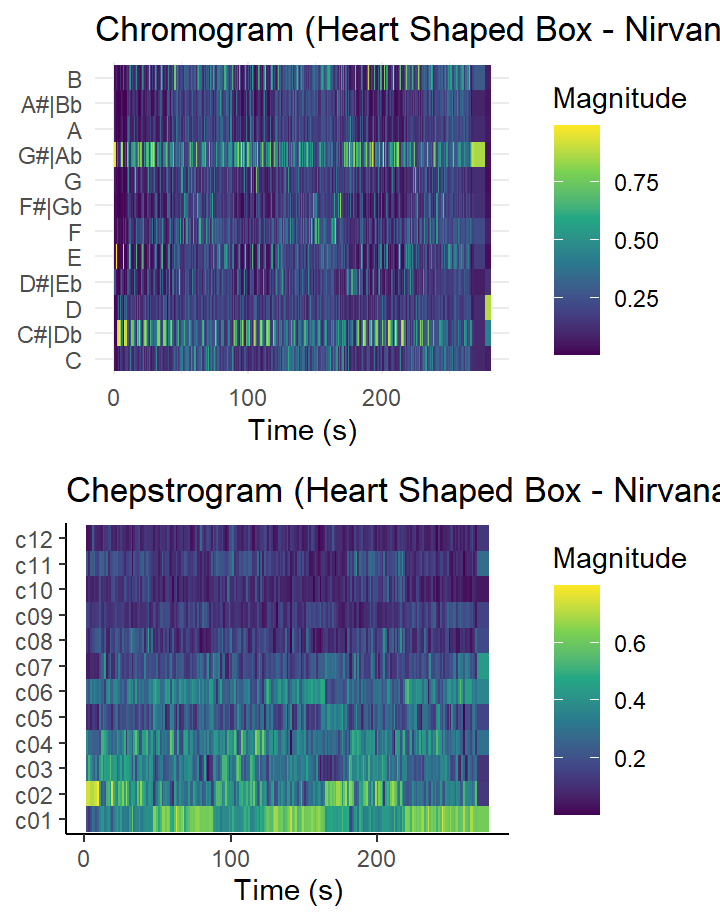
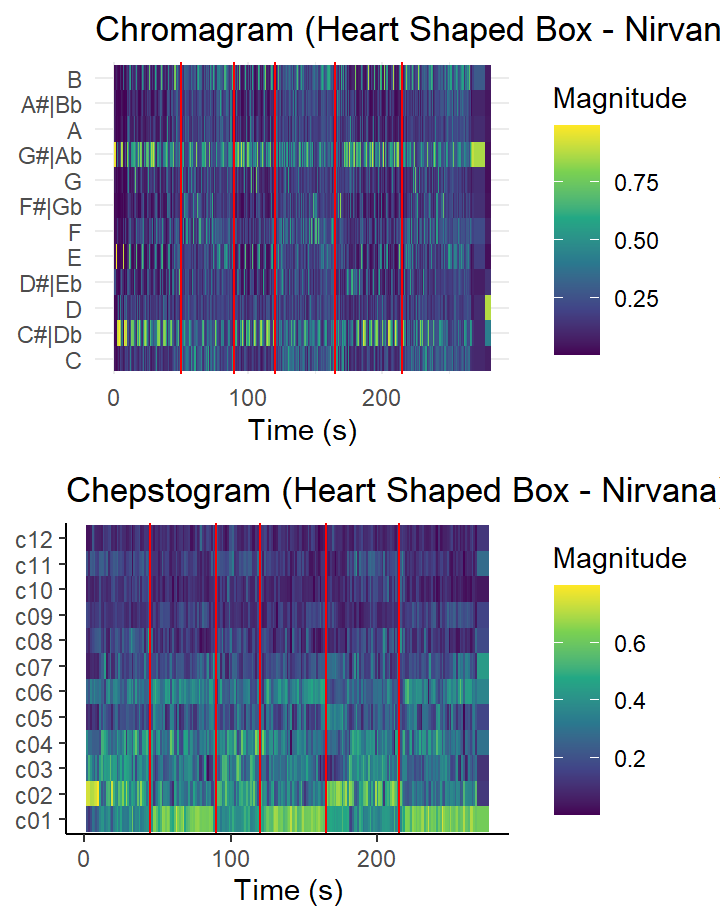
Updated chroma features

Changed region(s): [[0.2444, 0.5168, 1.0, 0.5776], [0.275, 0.0304, 0.3056, 0.0608]]

diff --git a/index.html b/index.html
@@ -2004,8 +2004,8 @@ class="section level3">
 <div class="knitr-options" data-fig-width="576" data-fig-height="460">
 
 </div>
-<div class="plotly html-widget html-fill-item" id="htmlwidget-795830f213ea0bdcb27b" style="width:576px;height:460.8px;"></div>
-<script type="application/json" data-for="htmlwidget-795830f213ea0bdcb27b">{"x":{"data":[{"x":[1,1,1,1,1,1,1,1,1,1,1,1,1,1,1,1,1,1,1,1,1,1,1,1,1,1,1,1,1,1,1,1,1,1,1,1,1,1,1,1,1,1,1,1,1,1,1,1],"y":[0.21199999999999999,0.124,0.28499999999999998,0.41199999999999998,0.255,0.46999999999999997,0.21299999999999999,0.11,0.35299999999999998,0.33300000000000002,0.16500000000000001,0.28199999999999997,0.23699999999999999,0.48499999999999999,0.193,0.094799999999999995,0.34699999999999998,0.19500000000000001,0.253,0.155,0.505,0.35199999999999998,0.077200000000000005,0.252,0.23499999999999999,0.039399999999999998,0.063,0.51000000000000001,0.125,0.16800000000000001,0.151,0.28599999999999998,0.0349,0.069900000000000004,0.36599999999999999,0.14699999999999999,0.16300000000000001,0.21099999999999999,0.249,0.20000000000000001,0.42199999999999999,0.23599999999999999,0.078899999999999998,0.034099999999999998,0.26000000000000001,0.41699999999999998,0.44600000000000001,0.16200000000000001],"hoverinfo":"y","type":"box","fillcolor":"rgba(248,118,109,0.55)","marker":{"opacity":null,"outliercolor":"rgba(0,0,0,1)","line":{"width":1.8897637795275593,"color":"rgba(0,0,0,1)"},"size":5.6692913385826778},"line":{"color":"rgba(51,51,51,1)","width":1.8897637795275593},"name":"Coldplay","legendgroup":"Coldplay","showlegend":true,"xaxis":"x","yaxis":"y","frame":null},{"x":[2,2,2,2,2,2,2,2,2,2,2,2,2,2,2,2,2,2,2,2,2,2,2,2,2,2,2,2,2,2,2,2,2,2,2,2,2,2],"y":[0.71999999999999997,0.57499999999999996,0.38200000000000001,0.876,0.53900000000000003,0.77000000000000002,0.35899999999999999,0.48499999999999999,0.22900000000000001,0.34399999999999997,0.066799999999999998,0.33300000000000002,0.23499999999999999,0.51200000000000001,0.96499999999999997,0.41899999999999998,0.26200000000000001,0.26300000000000001,0.66800000000000004,0.53100000000000003,0.32700000000000001,0.68100000000000005,0.19600000000000001,0.13,0.441,0.35099999999999998,0.41799999999999998,0.25700000000000001,0.55500000000000005,0.63800000000000001,0.68300000000000005,0.61299999999999999,0.39000000000000001,0.51200000000000001,0.55400000000000005,0.61699999999999999,0.53700000000000003,0.48199999999999998],"hoverinfo":"y","type":"box","fillcolor":"rgba(0,186,56,0.55)","marker":{"opacity":null,"outliercolor":"rgba(0,0,0,1)","line":{"width":1.8897637795275593,"color":"rgba(0,0,0,1)"},"size":5.6692913385826778},"line":{"color":"rgba(51,51,51,1)","width":1.8897637795275593},"name":"Nirvana","legendgroup":"Nirvana","showlegend":true,"xaxis":"x","yaxis":"y","frame":null},{"x":[3,3,3,3,3,3,3,3,3,3,3,3,3,3,3,3,3,3,3,3,3,3,3,3,3,3,3,3,3,3,3,3,3,3,3,3,3,3,3,3,3,3,3,3,3,3,3,3,3,3],"y":[0.39400000000000002,0.435,0.372,0.315,0.93700000000000006,0.40999999999999998,0.187,0.65000000000000002,0.378,0.90000000000000002,0.377,0.63600000000000001,0.81299999999999994,0.97499999999999998,0.76300000000000001,0.93600000000000005,0.33200000000000002,0.35799999999999998,0.79700000000000004,0.70199999999999996,0.23899999999999999,0.74399999999999999,0.84199999999999997,0.66600000000000004,0.625,0.97099999999999997,0.35999999999999999,0.83199999999999996,0.53200000000000003,0.749,0.39200000000000002,0.56799999999999995,0.74399999999999999,0.71299999999999997,0.80300000000000005,0.89300000000000002,0.90200000000000002,0.73299999999999998,0.54900000000000004,0.81999999999999995,0.69799999999999995,0.66100000000000003,0.64600000000000002,0.68700000000000006,0.65300000000000002,0.74199999999999999,0.66800000000000004,0.85799999999999998,0.72999999999999998,0.60899999999999999],"hoverinfo":"y","type":"box","fillcolor":"rgba(97,156,255,0.55)","marker":{"opacity":null,"outliercolor":"rgba(0,0,0,1)","line":{"width":1.8897637795275593,"color":"rgba(0,0,0,1)"},"size":5.6692913385826778},"line":{"color":"rgba(51,51,51,1)","width":1.8897637795275593},"name":"The Beatles","legendgroup":"The Beatles","showlegend":true,"xaxis":"x","yaxis":"y","frame":null},{"x":[1,1,1,1,1,1,1,1,1,1,1,1,1,1,1,1,1,1,1,1,1,1,1,1,1,1,1,1,1,1,1,1,1,1,1,1,1,1,1,1,1,1,1,1,1,1,1,1],"y":[0.58499999999999996,0.41699999999999998,0.66100000000000003,0.69299999999999995,0.749,0.71099999999999997,0.442,0.57999999999999996,0.89800000000000002,0.73199999999999998,0.26800000000000002,0.80800000000000005,0.68999999999999995,0.83199999999999996,0.58799999999999997,0.73999999999999999,0.68000000000000005,0.54600000000000004,0.71699999999999997,0.34200000000000003,0.64900000000000002,0.48199999999999998,0.92000000000000004,0.55600000000000005,0.45200000000000001,0.502,0.48199999999999998,0.79600000000000004,0.48599999999999999,0.59399999999999997,0.45900000000000002,0.80300000000000005,0.47499999999999998,0.26500000000000001,0.82399999999999995,0.84099999999999997,0.83399999999999996,0.29499999999999998,0.52500000000000002,0.17999999999999999,0.71099999999999997,0.17999999999999999,0.63900000000000001,0.216,0.79700000000000004,0.61699999999999999,0.63500000000000001,0.67500000000000004],"hoverinfo":"y","type":"box","fillcolor":"rgba(248,118,109,0.55)","marker":{"opacity":null,"outliercolor":"rgba(0,0,0,1)","line":{"width":1.8897637795275593,"color":"rgba(0,0,0,1)"},"size":5.6692913385826778},"line":{"color":"rgba(51,51,51,1)","width":1.8897637795275593},"name":"Coldplay","legendgroup":"Coldplay","showlegend":true,"xaxis":"x2","yaxis":"y2","frame":null},{"x":[2,2,2,2,2,2,2,2,2,2,2,2,2,2,2,2,2,2,2,2,2,2,2,2,2,2,2,2,2,2,2,2,2,2,2,2,2,2],"y":[0.91200000000000003,0.875,0.64100000000000001,0.39500000000000002,0.82399999999999995,0.86499999999999999,0.63200000000000001,0.65600000000000003,0.746,0.71599999999999997,0.20100000000000001,0.32600000000000001,0.82299999999999995,0.876,0.88600000000000001,0.68400000000000005,0.51000000000000001,0.96899999999999997,0.89500000000000002,0.88200000000000001,0.501,0.89500000000000002,0.44900000000000001,0.94299999999999995,0.83699999999999997,0.90800000000000003,0.94699999999999995,0.81799999999999995,0.93100000000000005,0.81000000000000005,0.878,0.56699999999999995,0.93799999999999994,0.876,0.72299999999999998,0.82999999999999996,0.52400000000000002,0.89800000000000002],"hoverinfo":"y","type":"box","fillcolor":"rgba(0,186,56,0.55)","marker":{"opacity":null,"outliercolor":"rgba(0,0,0,1)","line":{"width":1.8897637795275593,"color":"rgba(0,0,0,1)"},"size":5.6692913385826778},"line":{"color":"rgba(51,51,51,1)","width":1.8897637795275593},"name":"Nirvana","legendgroup":"Nirvana","showlegend":true,"xaxis":"x2","yaxis":"y2","frame":null},{"x":[3,3,3,3,3,3,3,3,3,3,3,3,3,3,3,3,3,3,3,3,3,3,3,3,3,3,3,3,3,3,3,3,3,3,3,3,3,3,3,3,3,3,3,3,3,3,3,3,3,3],"y":[0.54000000000000004,0.435,0.127,0.17899999999999999,0.84899999999999998,0.40300000000000002,0.376,0.36899999999999999,0.39200000000000002,0.56299999999999994,0.33800000000000002,0.33100000000000002,0.28000000000000003,0.72799999999999998,0.72499999999999998,0.70299999999999996,0.59199999999999997,0.60499999999999998,0.80500000000000005,0.65400000000000003,0.152,0.82899999999999996,0.67700000000000005,0.28999999999999998,0.313,0.80100000000000005,0.247,0.38700000000000001,0.60699999999999998,0.84999999999999998,0.32900000000000001,0.31,0.58299999999999996,0.35099999999999998,0.51500000000000001,0.29399999999999998,0.89500000000000002,0.28899999999999998,0.65600000000000003,0.57099999999999995,0.72199999999999998,0.24099999999999999,0.33800000000000002,0.624,0.47999999999999998,0.60799999999999998,0.32500000000000001,0.41199999999999998,0.51200000000000001,0.34899999999999998],"hoverinfo":"y","type":"box","fillcolor":"rgba(97,156,255,0.55)","marker":{"opacity":null,"outliercolor":"rgba(0,0,0,1)","line":{"width":1.8897637795275593,"color":"rgba(0,0,0,1)"},"size":5.6692913385826778},"line":{"color":"rgba(51,51,51,1)","width":1.8897637795275593},"name":"The Beatles","legendgroup":"The Beatles","showlegend":true,"xaxis":"x2","yaxis":"y2","frame":null}],"layout":{"xaxis":{"domain":[0,0.47999999999999998],"automargin":true,"type":"linear","autorange":false,"range":[0.40000000000000002,3.6000000000000001],"tickmode":"array","ticktext":["Coldplay","Nirvana","The Beatles"],"tickvals":[1,2,3],"categoryorder":"array","categoryarray":["Coldplay","Nirvana","The Beatles"],"nticks":null,"ticks":"outside","tickcolor":"rgba(179,179,179,1)","ticklen":3.6529680365296811,"tickwidth":0.33208800332088001,"showticklabels":true,"tickfont":{"color":"rgba(77,77,77,1)","family":"","size":11.689497716894984},"tickangle":-0,"showline":false,"linecolor":null,"linewidth":0,"showgrid":false,"gridcolor":null,"gridwidth":0,"zeroline":false,"anchor":"y","hoverformat":".2f"},"xaxis2":{"domain":[0.52000000000000002,1],"automargin":true,"type":"linear","autorange":false,"range":[0.40000000000000002,3.6000000000000001],"tickmode":"array","ticktext":["Coldplay","Nirvana","The Beatles"],"tickvals":[1,2,3],"categoryorder":"array","categoryarray":["Coldplay","Nirvana","The Beatles"],"nticks":null,"ticks":"outside","tickcolor":"rgba(179,179,179,1)","ticklen":3.6529680365296811,"tickwidth":0.33208800332088001,"showticklabels":true,"tickfont":{"color":"rgba(77,77,77,1)","family":"","size":11.689497716894984},"tickangle":-0,"showline":false,"linecolor":null,"linewidth":0,"showgrid":false,"gridcolor":null,"gridwidth":0,"zeroline":false,"anchor":"y2","hoverformat":".2f"},"yaxis2":{"domain":[0,1],"automargin":true,"type":"linear","autorange":false,"range":[-0.050000000000000003,1.05],"tickmode":"array","ticktext":["0.00","0.25","0.50","0.75","1.00"],"tickvals":[0,0.25,0.5,0.75,1],"categoryorder":"array","categoryarray":["0.00","0.25","0.50","0.75","1.00"],"nticks":null,"ticks":"outside","tickcolor":"rgba(179,179,179,1)","ticklen":3.6529680365296811,"tickwidth":0.33208800332088001,"showticklabels":true,"tickfont":{"color":"rgba(77,77,77,1)","family":"","size":11.68949771689498},"tickangle":-0,"showline":false,"linecolor":null,"linewidth":0,"showgrid":true,"gridcolor":"rgba(222,222,222,1)","gridwidth":0.33208800332088001,"zeroline":false,"anchor":"x2","hoverformat":".2f"},"yaxis":{"domain":[0,1],"automargin":true,"type":"linear","autorange":false,"range":[-0.050000000000000003,1.05],"tickmode":"array","ticktext":["0.00","0.25","0.50","0.75","1.00"],"tickvals":[0,0.25,0.5,0.75,1],"categoryorder":"array","categoryarray":["0.00","0.25","0.50","0.75","1.00"],"nticks":null,"ticks":"outside","tickcolor":"rgba(179,179,179,1)","ticklen":3.6529680365296811,"tickwidth":0.33208800332088001,"showticklabels":true,"tickfont":{"color":"rgba(77,77,77,1)","family":"","size":11.68949771689498},"tickangle":-0,"showline":false,"linecolor":null,"linewidth":0,"showgrid":true,"gridcolor":"rgba(222,222,222,1)","gridwidth":0.33208800332088001,"zeroline":false,"anchor":"x","hoverformat":".2f"},"annotations":[],"shapes":[{"type":"rect","fillcolor":"transparent","line":{"color":"rgba(179,179,179,1)","width":0.66417600664176002,"linetype":"solid"},"yref":"paper","xref":"paper","x0":0,"x1":0.47999999999999998,"y0":0,"y1":1},{"type":"rect","fillcolor":"transparent","line":{"color":"rgba(179,179,179,1)","width":0.66417600664176002,"linetype":"solid"},"yref":"paper","xref":"paper","x0":0.52000000000000002,"x1":1,"y0":0,"y1":1}],"images":[],"margin":{"t":42.682549136390719,"r":7.3059360730593621,"b":39.102640460591637,"l":48.949771689497723},"plot_bgcolor":"rgba(255,255,255,1)","paper_bgcolor":"rgba(255,255,255,1)","font":{"color":"rgba(0,0,0,1)","family":"","size":14.611872146118724},"title":{"text":"Left: Valence Distribution, Right: Energy Distribution","font":{"color":"rgba(0,0,0,1)","family":"","size":17.534246575342468},"x":0,"xref":"paper"},"showlegend":false,"legend":{"bgcolor":"rgba(255,255,255,1)","bordercolor":"transparent","borderwidth":1.8897637795275593,"font":{"color":"rgba(0,0,0,1)","family":"","size":11.689497716894984}},"hovermode":"closest","barmode":"relative"},"attrs":{"3b201e77649c":{"x":{},"y":{},"fill":{},"alpha":{},"type":"box"},"3b204364537d":{"x":{},"y":{},"fill":{},"alpha":{},"type":"box"}},"source":"A","config":{"doubleClick":"reset","modeBarButtonsToAdd":["hoverclosest","hovercompare"],"showSendToCloud":false},"highlight":{"on":"plotly_click","persistent":false,"dynamic":false,"selectize":false,"opacityDim":0.20000000000000001,"selected":{"opacity":1},"debounce":0},"subplot":true,"shinyEvents":["plotly_hover","plotly_click","plotly_selected","plotly_relayout","plotly_brushed","plotly_brushing","plotly_clickannotation","plotly_doubleclick","plotly_deselect","plotly_afterplot","plotly_sunburstclick"],"base_url":"https://plot.ly"},"evals":[],"jsHooks":[]}</script>
+<div class="plotly html-widget html-fill-item" id="htmlwidget-0ec98576cbd6f609788f" style="width:576px;height:460.8px;"></div>
+<script type="application/json" data-for="htmlwidget-0ec98576cbd6f609788f">{"x":{"data":[{"x":[1,1,1,1,1,1,1,1,1,1,1,1,1,1,1,1,1,1,1,1,1,1,1,1,1,1,1,1,1,1,1,1,1,1,1,1,1,1,1,1,1,1,1,1,1,1,1,1],"y":[0.21199999999999999,0.124,0.28499999999999998,0.41199999999999998,0.255,0.46999999999999997,0.21299999999999999,0.11,0.35299999999999998,0.33300000000000002,0.16500000000000001,0.28199999999999997,0.23699999999999999,0.48499999999999999,0.193,0.094799999999999995,0.34699999999999998,0.19500000000000001,0.253,0.155,0.505,0.35199999999999998,0.077200000000000005,0.252,0.23499999999999999,0.039399999999999998,0.063,0.51000000000000001,0.125,0.16800000000000001,0.151,0.28599999999999998,0.0349,0.069900000000000004,0.36599999999999999,0.14699999999999999,0.16300000000000001,0.21099999999999999,0.249,0.20000000000000001,0.42199999999999999,0.23599999999999999,0.078899999999999998,0.034099999999999998,0.26000000000000001,0.41699999999999998,0.44600000000000001,0.16200000000000001],"hoverinfo":"y","type":"box","fillcolor":"rgba(248,118,109,0.55)","marker":{"opacity":null,"outliercolor":"rgba(0,0,0,1)","line":{"width":1.8897637795275593,"color":"rgba(0,0,0,1)"},"size":5.6692913385826778},"line":{"color":"rgba(51,51,51,1)","width":1.8897637795275593},"name":"Coldplay","legendgroup":"Coldplay","showlegend":true,"xaxis":"x","yaxis":"y","frame":null},{"x":[2,2,2,2,2,2,2,2,2,2,2,2,2,2,2,2,2,2,2,2,2,2,2,2,2,2,2,2,2,2,2,2,2,2,2,2,2,2],"y":[0.71999999999999997,0.57499999999999996,0.38200000000000001,0.876,0.53900000000000003,0.77000000000000002,0.35899999999999999,0.48499999999999999,0.22900000000000001,0.34399999999999997,0.066799999999999998,0.33300000000000002,0.23499999999999999,0.51200000000000001,0.96499999999999997,0.41899999999999998,0.26200000000000001,0.26300000000000001,0.66800000000000004,0.53100000000000003,0.32700000000000001,0.68100000000000005,0.19600000000000001,0.13,0.441,0.35099999999999998,0.41799999999999998,0.25700000000000001,0.55500000000000005,0.63800000000000001,0.68300000000000005,0.61299999999999999,0.39000000000000001,0.51200000000000001,0.55400000000000005,0.61699999999999999,0.53700000000000003,0.48199999999999998],"hoverinfo":"y","type":"box","fillcolor":"rgba(0,186,56,0.55)","marker":{"opacity":null,"outliercolor":"rgba(0,0,0,1)","line":{"width":1.8897637795275593,"color":"rgba(0,0,0,1)"},"size":5.6692913385826778},"line":{"color":"rgba(51,51,51,1)","width":1.8897637795275593},"name":"Nirvana","legendgroup":"Nirvana","showlegend":true,"xaxis":"x","yaxis":"y","frame":null},{"x":[3,3,3,3,3,3,3,3,3,3,3,3,3,3,3,3,3,3,3,3,3,3,3,3,3,3,3,3,3,3,3,3,3,3,3,3,3,3,3,3,3,3,3,3,3,3,3,3,3,3],"y":[0.39400000000000002,0.435,0.372,0.315,0.93700000000000006,0.40999999999999998,0.187,0.65000000000000002,0.378,0.90000000000000002,0.377,0.63600000000000001,0.81299999999999994,0.97499999999999998,0.76300000000000001,0.93600000000000005,0.33200000000000002,0.35799999999999998,0.79700000000000004,0.70199999999999996,0.23899999999999999,0.74399999999999999,0.84199999999999997,0.66600000000000004,0.625,0.97099999999999997,0.35999999999999999,0.83199999999999996,0.53200000000000003,0.749,0.39200000000000002,0.56799999999999995,0.74399999999999999,0.71299999999999997,0.80300000000000005,0.89300000000000002,0.90200000000000002,0.73299999999999998,0.54900000000000004,0.81999999999999995,0.69799999999999995,0.66100000000000003,0.64600000000000002,0.68700000000000006,0.65300000000000002,0.74199999999999999,0.66800000000000004,0.85799999999999998,0.72999999999999998,0.60899999999999999],"hoverinfo":"y","type":"box","fillcolor":"rgba(97,156,255,0.55)","marker":{"opacity":null,"outliercolor":"rgba(0,0,0,1)","line":{"width":1.8897637795275593,"color":"rgba(0,0,0,1)"},"size":5.6692913385826778},"line":{"color":"rgba(51,51,51,1)","width":1.8897637795275593},"name":"The Beatles","legendgroup":"The Beatles","showlegend":true,"xaxis":"x","yaxis":"y","frame":null},{"x":[1,1,1,1,1,1,1,1,1,1,1,1,1,1,1,1,1,1,1,1,1,1,1,1,1,1,1,1,1,1,1,1,1,1,1,1,1,1,1,1,1,1,1,1,1,1,1,1],"y":[0.58499999999999996,0.41699999999999998,0.66100000000000003,0.69299999999999995,0.749,0.71099999999999997,0.442,0.57999999999999996,0.89800000000000002,0.73199999999999998,0.26800000000000002,0.80800000000000005,0.68999999999999995,0.83199999999999996,0.58799999999999997,0.73999999999999999,0.68000000000000005,0.54600000000000004,0.71699999999999997,0.34200000000000003,0.64900000000000002,0.48199999999999998,0.92000000000000004,0.55600000000000005,0.45200000000000001,0.502,0.48199999999999998,0.79600000000000004,0.48599999999999999,0.59399999999999997,0.45900000000000002,0.80300000000000005,0.47499999999999998,0.26500000000000001,0.82399999999999995,0.84099999999999997,0.83399999999999996,0.29499999999999998,0.52500000000000002,0.17999999999999999,0.71099999999999997,0.17999999999999999,0.63900000000000001,0.216,0.79700000000000004,0.61699999999999999,0.63500000000000001,0.67500000000000004],"hoverinfo":"y","type":"box","fillcolor":"rgba(248,118,109,0.55)","marker":{"opacity":null,"outliercolor":"rgba(0,0,0,1)","line":{"width":1.8897637795275593,"color":"rgba(0,0,0,1)"},"size":5.6692913385826778},"line":{"color":"rgba(51,51,51,1)","width":1.8897637795275593},"name":"Coldplay","legendgroup":"Coldplay","showlegend":true,"xaxis":"x2","yaxis":"y2","frame":null},{"x":[2,2,2,2,2,2,2,2,2,2,2,2,2,2,2,2,2,2,2,2,2,2,2,2,2,2,2,2,2,2,2,2,2,2,2,2,2,2],"y":[0.91200000000000003,0.875,0.64100000000000001,0.39500000000000002,0.82399999999999995,0.86499999999999999,0.63200000000000001,0.65600000000000003,0.746,0.71599999999999997,0.20100000000000001,0.32600000000000001,0.82299999999999995,0.876,0.88600000000000001,0.68400000000000005,0.51000000000000001,0.96899999999999997,0.89500000000000002,0.88200000000000001,0.501,0.89500000000000002,0.44900000000000001,0.94299999999999995,0.83699999999999997,0.90800000000000003,0.94699999999999995,0.81799999999999995,0.93100000000000005,0.81000000000000005,0.878,0.56699999999999995,0.93799999999999994,0.876,0.72299999999999998,0.82999999999999996,0.52400000000000002,0.89800000000000002],"hoverinfo":"y","type":"box","fillcolor":"rgba(0,186,56,0.55)","marker":{"opacity":null,"outliercolor":"rgba(0,0,0,1)","line":{"width":1.8897637795275593,"color":"rgba(0,0,0,1)"},"size":5.6692913385826778},"line":{"color":"rgba(51,51,51,1)","width":1.8897637795275593},"name":"Nirvana","legendgroup":"Nirvana","showlegend":true,"xaxis":"x2","yaxis":"y2","frame":null},{"x":[3,3,3,3,3,3,3,3,3,3,3,3,3,3,3,3,3,3,3,3,3,3,3,3,3,3,3,3,3,3,3,3,3,3,3,3,3,3,3,3,3,3,3,3,3,3,3,3,3,3],"y":[0.54000000000000004,0.435,0.127,0.17899999999999999,0.84899999999999998,0.40300000000000002,0.376,0.36899999999999999,0.39200000000000002,0.56299999999999994,0.33800000000000002,0.33100000000000002,0.28000000000000003,0.72799999999999998,0.72499999999999998,0.70299999999999996,0.59199999999999997,0.60499999999999998,0.80500000000000005,0.65400000000000003,0.152,0.82899999999999996,0.67700000000000005,0.28999999999999998,0.313,0.80100000000000005,0.247,0.38700000000000001,0.60699999999999998,0.84999999999999998,0.32900000000000001,0.31,0.58299999999999996,0.35099999999999998,0.51500000000000001,0.29399999999999998,0.89500000000000002,0.28899999999999998,0.65600000000000003,0.57099999999999995,0.72199999999999998,0.24099999999999999,0.33800000000000002,0.624,0.47999999999999998,0.60799999999999998,0.32500000000000001,0.41199999999999998,0.51200000000000001,0.34899999999999998],"hoverinfo":"y","type":"box","fillcolor":"rgba(97,156,255,0.55)","marker":{"opacity":null,"outliercolor":"rgba(0,0,0,1)","line":{"width":1.8897637795275593,"color":"rgba(0,0,0,1)"},"size":5.6692913385826778},"line":{"color":"rgba(51,51,51,1)","width":1.8897637795275593},"name":"The Beatles","legendgroup":"The Beatles","showlegend":true,"xaxis":"x2","yaxis":"y2","frame":null}],"layout":{"xaxis":{"domain":[0,0.47999999999999998],"automargin":true,"type":"linear","autorange":false,"range":[0.40000000000000002,3.6000000000000001],"tickmode":"array","ticktext":["Coldplay","Nirvana","The Beatles"],"tickvals":[1,2,3],"categoryorder":"array","categoryarray":["Coldplay","Nirvana","The Beatles"],"nticks":null,"ticks":"outside","tickcolor":"rgba(179,179,179,1)","ticklen":3.6529680365296811,"tickwidth":0.33208800332088001,"showticklabels":true,"tickfont":{"color":"rgba(77,77,77,1)","family":"","size":11.689497716894984},"tickangle":-0,"showline":false,"linecolor":null,"linewidth":0,"showgrid":false,"gridcolor":null,"gridwidth":0,"zeroline":false,"anchor":"y","hoverformat":".2f"},"xaxis2":{"domain":[0.52000000000000002,1],"automargin":true,"type":"linear","autorange":false,"range":[0.40000000000000002,3.6000000000000001],"tickmode":"array","ticktext":["Coldplay","Nirvana","The Beatles"],"tickvals":[1,2,3],"categoryorder":"array","categoryarray":["Coldplay","Nirvana","The Beatles"],"nticks":null,"ticks":"outside","tickcolor":"rgba(179,179,179,1)","ticklen":3.6529680365296811,"tickwidth":0.33208800332088001,"showticklabels":true,"tickfont":{"color":"rgba(77,77,77,1)","family":"","size":11.689497716894984},"tickangle":-0,"showline":false,"linecolor":null,"linewidth":0,"showgrid":false,"gridcolor":null,"gridwidth":0,"zeroline":false,"anchor":"y2","hoverformat":".2f"},"yaxis2":{"domain":[0,1],"automargin":true,"type":"linear","autorange":false,"range":[-0.050000000000000003,1.05],"tickmode":"array","ticktext":["0.00","0.25","0.50","0.75","1.00"],"tickvals":[0,0.25,0.5,0.75,1],"categoryorder":"array","categoryarray":["0.00","0.25","0.50","0.75","1.00"],"nticks":null,"ticks":"outside","tickcolor":"rgba(179,179,179,1)","ticklen":3.6529680365296811,"tickwidth":0.33208800332088001,"showticklabels":true,"tickfont":{"color":"rgba(77,77,77,1)","family":"","size":11.68949771689498},"tickangle":-0,"showline":false,"linecolor":null,"linewidth":0,"showgrid":true,"gridcolor":"rgba(222,222,222,1)","gridwidth":0.33208800332088001,"zeroline":false,"anchor":"x2","hoverformat":".2f"},"yaxis":{"domain":[0,1],"automargin":true,"type":"linear","autorange":false,"range":[-0.050000000000000003,1.05],"tickmode":"array","ticktext":["0.00","0.25","0.50","0.75","1.00"],"tickvals":[0,0.25,0.5,0.75,1],"categoryorder":"array","categoryarray":["0.00","0.25","0.50","0.75","1.00"],"nticks":null,"ticks":"outside","tickcolor":"rgba(179,179,179,1)","ticklen":3.6529680365296811,"tickwidth":0.33208800332088001,"showticklabels":true,"tickfont":{"color":"rgba(77,77,77,1)","family":"","size":11.68949771689498},"tickangle":-0,"showline":false,"linecolor":null,"linewidth":0,"showgrid":true,"gridcolor":"rgba(222,222,222,1)","gridwidth":0.33208800332088001,"zeroline":false,"anchor":"x","hoverformat":".2f"},"annotations":[],"shapes":[{"type":"rect","fillcolor":"transparent","line":{"color":"rgba(179,179,179,1)","width":0.66417600664176002,"linetype":"solid"},"yref":"paper","xref":"paper","x0":0,"x1":0.47999999999999998,"y0":0,"y1":1},{"type":"rect","fillcolor":"transparent","line":{"color":"rgba(179,179,179,1)","width":0.66417600664176002,"linetype":"solid"},"yref":"paper","xref":"paper","x0":0.52000000000000002,"x1":1,"y0":0,"y1":1}],"images":[],"margin":{"t":42.682549136390719,"r":7.3059360730593621,"b":39.102640460591637,"l":48.949771689497723},"plot_bgcolor":"rgba(255,255,255,1)","paper_bgcolor":"rgba(255,255,255,1)","font":{"color":"rgba(0,0,0,1)","family":"","size":14.611872146118724},"title":{"text":"Left: Valence Distribution, Right: Energy Distribution","font":{"color":"rgba(0,0,0,1)","family":"","size":17.534246575342468},"x":0,"xref":"paper"},"showlegend":false,"legend":{"bgcolor":"rgba(255,255,255,1)","bordercolor":"transparent","borderwidth":1.8897637795275593,"font":{"color":"rgba(0,0,0,1)","family":"","size":11.689497716894984}},"hovermode":"closest","barmode":"relative"},"attrs":{"1d3057ce6f39":{"x":{},"y":{},"fill":{},"alpha":{},"type":"box"},"1d305d47f6a":{"x":{},"y":{},"fill":{},"alpha":{},"type":"box"}},"source":"A","config":{"doubleClick":"reset","modeBarButtonsToAdd":["hoverclosest","hovercompare"],"showSendToCloud":false},"highlight":{"on":"plotly_click","persistent":false,"dynamic":false,"selectize":false,"opacityDim":0.20000000000000001,"selected":{"opacity":1},"debounce":0},"subplot":true,"shinyEvents":["plotly_hover","plotly_click","plotly_selected","plotly_relayout","plotly_brushed","plotly_brushing","plotly_clickannotation","plotly_doubleclick","plotly_deselect","plotly_afterplot","plotly_sunburstclick"],"base_url":"https://plot.ly"},"evals":[],"jsHooks":[]}</script>
 <hr />
 <p>The two plots on the left show the distribution of valence (the
 positiveness of a song) and energy (the intensity of a song) per
@@ -2028,13 +2028,32 @@ intensity. Coldplay follows with a median of 0.63, while The Beatles
 have a median intensity of 0.43. I also found the results for The
 Beatles not surprising, since their tracks usually play more slow.</p>
 </div>
-<div id="chromagram-and-cepstrogram" class="section level3">
-<h3>Chromagram and Cepstrogram</h3>
+<div id="chroma-features" class="section level3">
+<h3>Chroma Features</h3>
 <div class="knitr-options" data-fig-width="576" data-fig-height="460">
 
 </div>
 <p><img src="index_files/figure-html/unnamed-chunk-1-1.png" width="576" data-figure-id=fig1 /></p>
 <hr />
+<p>One of the fastest tracks in this corpus in “Heart Shaped Box” by
+Nirvana. It does have the highest tempo (which we will get to in later
+chapters). It’s pitch content is displayed in the two graphs on the
+left. The top graph shows the chromagram of this graph and the bottom
+one shows the chepstogram. The chromagram displays the energy
+distribution of different pitch classes over time, while the chepstogram
+displays the spectral content over time.</p>
+<iframe style="border-radius:12px" src="https://open.spotify.com/embed/track/11LmqTE2naFULdEP94AUBa?utm_source=generator&amp;theme=0" width="100%" height="152" frameBorder="0" allowfullscreen allow="autoplay; clipboard-write; encrypted-media; fullscreen; picture-in-picture" loading="lazy">
+</iframe>
+<p>This track can be roughly divided into two ‘structures’ that
+interchange. To time points in which those changes happen is marked with
+the red lines. The track starts with a lot of energy in the G#/Ab and
+G#/Db pitch classes, with also a little bit coming from E. We can see
+this on the chepstogram, where there is high energy for two frequencies.
+At around the 45 second mark, most energy in the G#/Db pitch class seems
+to disappear. Almost all the energy then comes from just the G#/Ab pitch
+class. This is also noticeable in the cheptogram, where most energy is
+now in c01. These two parts than interchange multiple times throughout
+the track.</p>
 </div>
 <div id="valence-explained-by-tonal-analyses" class="section level3">
 <h3>Valence Explained By Tonal Analyses</h3>
@@ -2109,10 +2128,11 @@ that there is a similarity in timbre.</p>
 <p>High levels of similarity can be seen with checkerboard patterns.
 Those are clearly more profound in Smells Like Teen Spirit, where the
 overall structure is clearly visible. It roughly has a A-B-C-B-C-C-B-C
-structure. This structure is a lot less clear in Yellow, meaning the
-timbre changes throughout the track, or Spotify has trouble picking up
-on the timbre. By listening to this track, there are clearly repeating
-patterns, giving me reasons to suspect it is the second reason.</p>
+structure. This structure is a lot less clear in Yellow, because of the
+absence of clear yellow ‘bars’ and there seems to be a lot of noise.
+When listening to the song, it is indeed hard to notice significant
+changes in timbre. Because of this, there is no clear (timbre)
+structure.</p>
 </div>
 <div id="track-level-features-tempo-and-loudness"
 class="section level3">
@@ -2192,13 +2212,38 @@ tracks and acousticness.</p>
 is most notable with the c05 and c06 partials. There does not seem to be
 a big distinction in the different chroma’s used.</p>
 </div>
-<div id="classifying-independant-tracks" class="section level3">
-<h3>Classifying Independant Tracks</h3>
+<div id="clustering-of-tracks" class="section level3">
+<h3>Clustering of Tracks</h3>
 <div class="knitr-options" data-fig-width="576" data-fig-height="460">
 
 </div>
-<p><img src="index_files/figure-html/dendogram-1.png" width="576" data-figure-id=fig7 />
-### Conclusion</p>
+<p><img src="index_files/figure-html/dendogram-1.png" width="576" data-figure-id=fig7 /></p>
+<hr />
+<p>In the previous chapter, we have seen the most important features
+that distinguish the three bands. But just how well are these features
+in the separation of the three bands? The plot on this page shows a
+dendogram that was made with a clustering algorithm (using the “average”
+method). This plot shows the groups that are formed by tracks that are
+similar based on the top 9 features discussed earlier. Only the top 10
+songs in popularity have been selected from each band.</p>
+<p>As can be seen, a lot of the tracks from The Beatles form a clear
+cluster. This means they are quite different from the tracks of the
+other two bands. What is interesting is that a lot of the songs from
+Coldplay have two big clusters that are separated quite far from each
+other. Nirvana does not seem to have a big cluster of itself. A lot of
+their tracks start mixing with Coldplay, while some start mixing with
+the remaining Beatles songs that are not in the big cluster.</p>
+<p>I found the results of this dendogram quite surprising. I initially
+thought that Nirvana would also have one or two clear clusters, but that
+is not the case. This is probably the result of energy being left out.
+The fact that valence is included can be a reason why The Beatles do
+have a clear cluster. This dendogram shows that although there is clear
+distinctions between the bands, there are also some tracks that share
+the same characteristics.</p>
+</div>
+<div id="conclusion" class="section level3">
+<h3>Conclusion</h3>
+<p>hallo</p>
 </div>
 
 </div>
